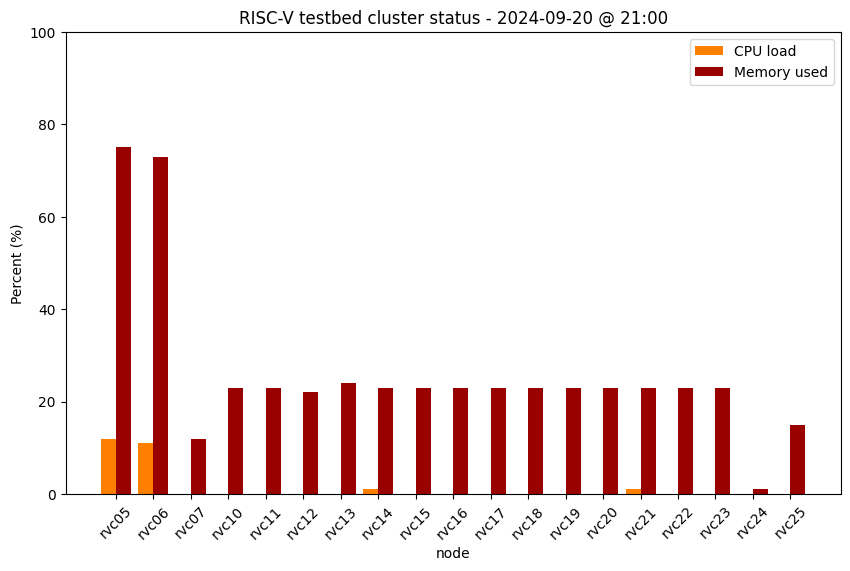
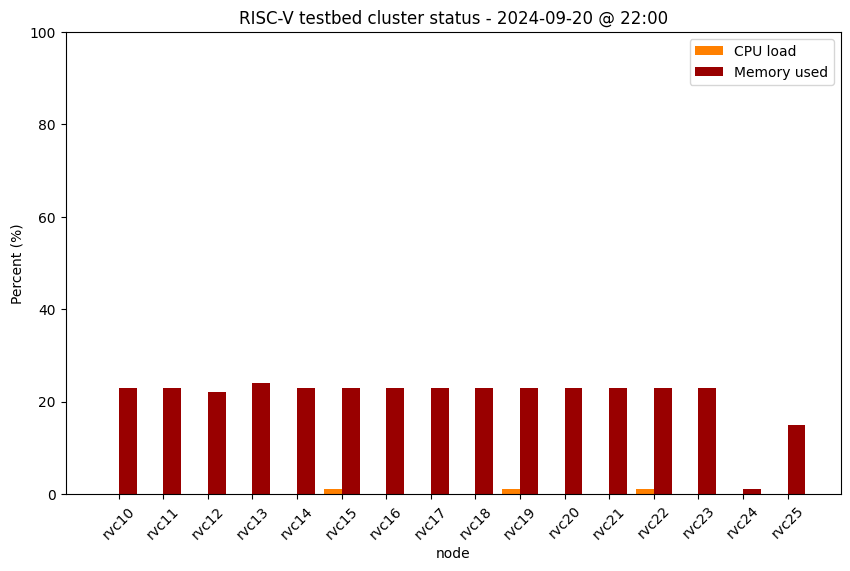
Update cluster status

Changed region(s): [[0.0918, 0.2382, 0.9482, 0.9527]]

diff --git a/status.md b/status.md
@@ -17,9 +17,9 @@ permalink: /status/
 | DongshanNezhaSTU #2 | rvc02 | 1 | 512MB | <img src="/images/amber.png" alt="amber light" width="10"/> offline |
 | DongshanNezhaSTU #3 | rvc03 | 1 | 512MB | <img src="/images/amber.png" alt="amber light" width="10"/> offline |
 | DongshanNezhaSTU #4 | rvc04 | 1 | 512MB | <img src="/images/amber.png" alt="amber light" width="10"/> offline |
-| MangoPi MQ-Pro #1 | rvc05 | 1 | 1GB | <img src="/images/on.png" alt="green light" width="10"/> up |
-| MangoPi MQ-Pro #2 | rvc06 | 1 | 1GB | <img src="/images/on.png" alt="green light" width="10"/> up |
-| StarFive VisionFive V1 #1 | rvc07 | 2 | 8GB | <img src="/images/on.png" alt="green light" width="10"/> up |
+| MangoPi MQ-Pro #1 | rvc05 | 1 | 1GB | <img src="/images/off.png" alt="red light" width="10"/> down |
+| MangoPi MQ-Pro #2 | rvc06 | 1 | 1GB | <img src="/images/off.png" alt="red light" width="10"/> down |
+| StarFive VisionFive V1 #1 | rvc07 | 2 | 8GB | <img src="/images/off.png" alt="red light" width="10"/> down |
 | StarFive VisionFive V1 #2 | rvc08 | 2 | 8GB | <img src="/images/off.png" alt="red light" width="10"/> down |
 | StarFive VisionFive V1 #3 | rvc09 | 2 | 8GB | <img src="/images/amber.png" alt="amber light" width="10"/> offline |
 | HiFive Unmatched  | rvc10 | 4 | 16GB | <img src="/images/on.png" alt="green light" width="10"/> up |
